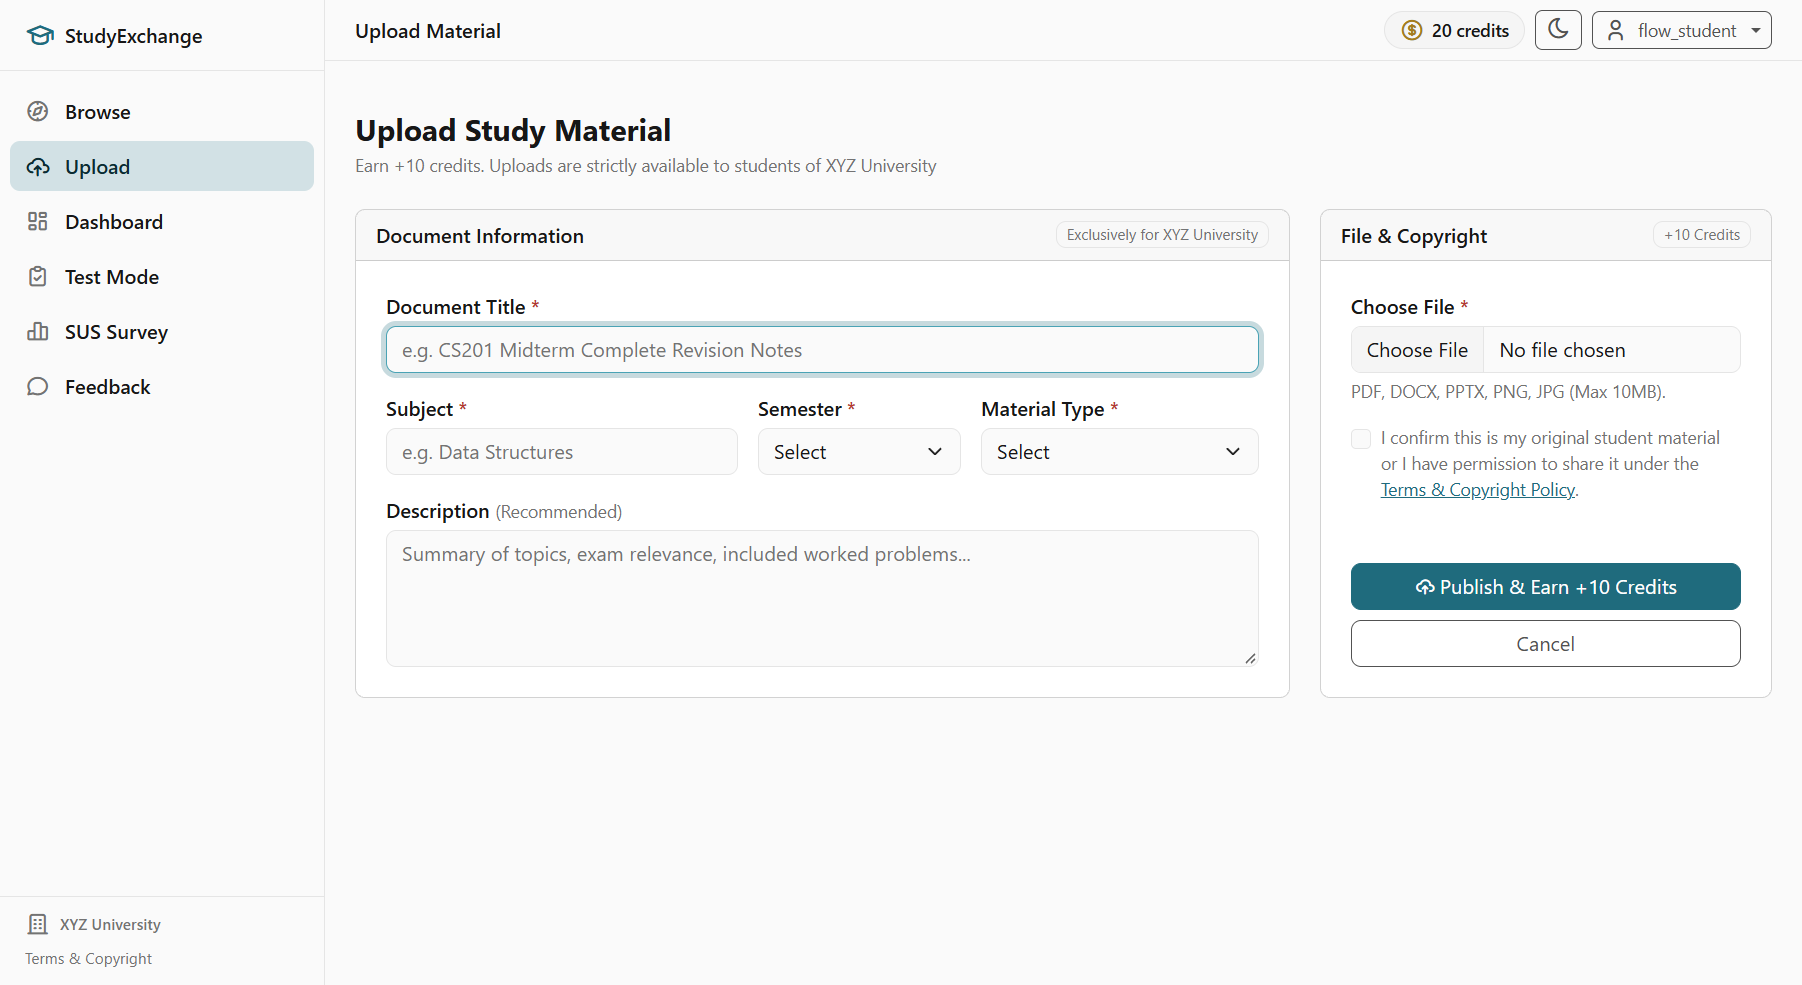
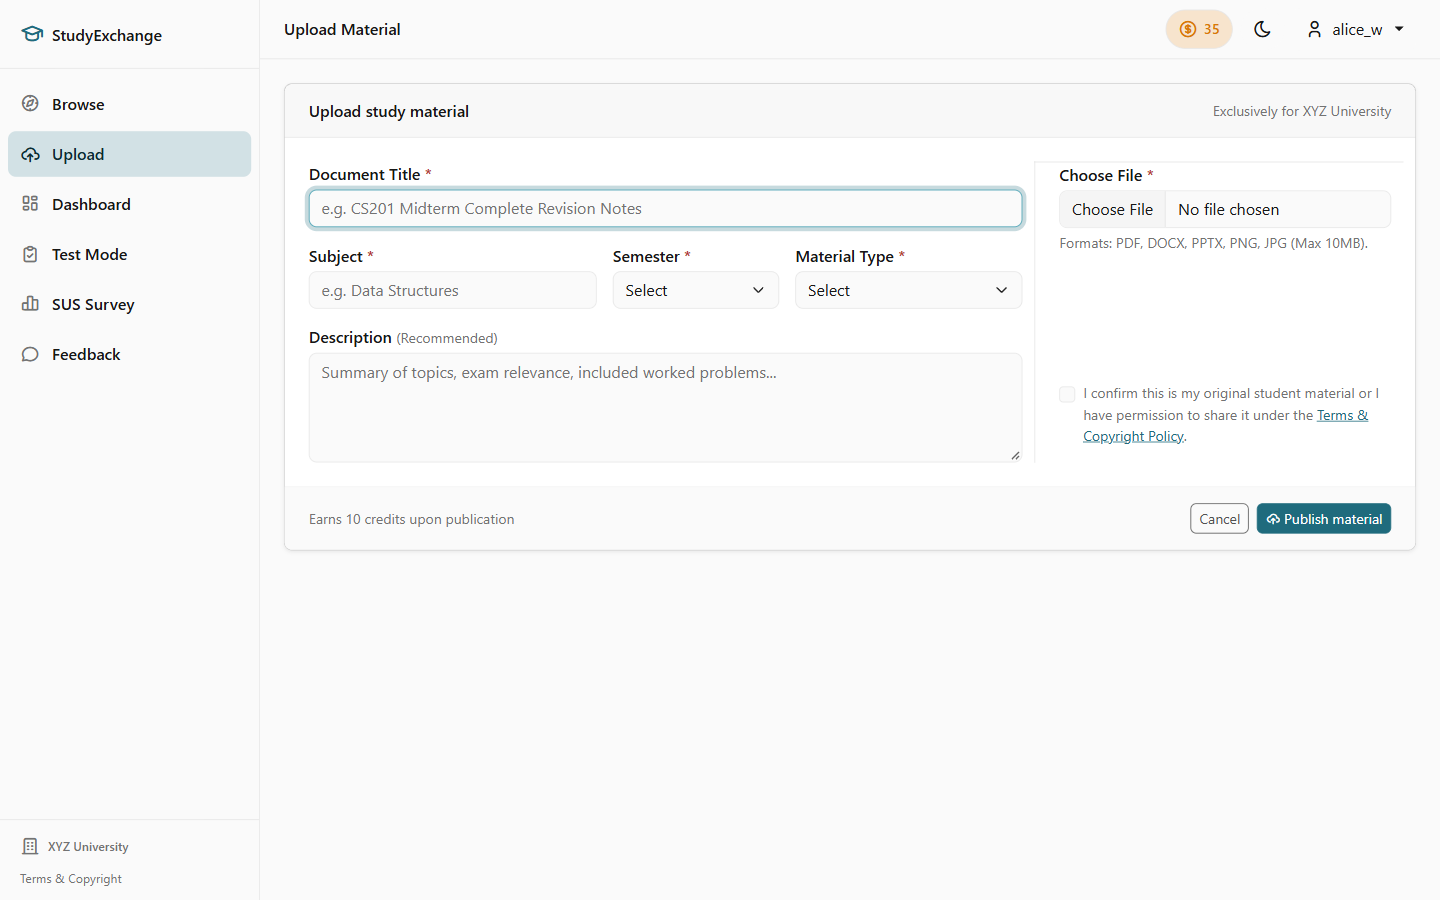
Phase 3: redesign upload page into single card two-column layout

diff --git a/templates/upload.html b/templates/upload.html
@@ -1,29 +1,25 @@
 {% extends "base.html" %}
-{% import "_components.html" as ui %}
 
 {% block title %}Upload Study Material - StudyExchange{% endblock %}
 {% block topbar_title %}Upload Material{% endblock %}
 
 {% block content %}
 <div class="container-fluid p-0">
-    {{ ui.page_header(
-    title="Upload Study Material",
-    subtitle="Earn +" + config.UPLOAD_REWARD|string + " credits. Uploads are strictly available to students of " + current_user.university_name
-    ) }}
-
     <form action="{{ url_for('upload.upload_file') }}" method="POST" enctype="multipart/form-data"
         class="needs-validation" novalidate>
         <input type="hidden" name="csrf_token" value="{{ csrf_token() }}">
 
-        <div class="row g-3 g-lg-4 align-items-stretch">
-            <!-- Left Card: Metadata (col-lg-8) -->
-            <div class="col-lg-8">
-                <div class="card h-100">
-                    <div class="card-header py-2 px-3 d-flex justify-content-between align-items-center">
-                        <span class="fw-semibold text-body">Document Information</span>
-                        <span class="badge border text-body-secondary fw-normal">Exclusively for {{ current_user.university_name }}</span>
-                    </div>
-                    <div class="card-body p-3 p-md-4">
+        <!-- Single Card: Two-Column Upload Layout -->
+        <div class="card shadow-sm">
+            <div class="card-header py-3 px-3 px-md-4 d-flex justify-content-between align-items-center flex-wrap gap-2">
+                <h1 class="h6 fw-semibold text-body mb-0">Upload study material</h1>
+                <span class="text-body-secondary small">Exclusively for {{ current_user.university_name }}</span>
+            </div>
+
+            <div class="card-body p-3 p-md-4">
+                <div class="row g-3 g-lg-4">
+                    <!-- Left Column: Metadata (col-lg-8) -->
+                    <div class="col-lg-8">
                         <!-- Title (Full Row) -->
                         <div class="mb-3">
                             <label for="title" class="form-label fw-medium text-body mb-1">
@@ -34,7 +30,7 @@
                             <div class="invalid-feedback">Please enter a clear document title.</div>
                         </div>
 
-                        <!-- Subject, Semester, Material Type on One Row (3 cols) -->
+                        <!-- Subject, Semester, Material Type on One Row -->
                         <div class="row g-2 g-md-3 mb-3">
                             <div class="col-md-5">
                                 <label for="subject" class="form-label fw-medium text-body mb-1">
@@ -82,17 +78,9 @@
                                 placeholder="Summary of topics, exam relevance, included worked problems..."></textarea>
                         </div>
                     </div>
-                </div>
-            </div>
 
-            <!-- Right Card: File Upload & Actions (col-lg-4) -->
-            <div class="col-lg-4">
-                <div class="card h-100">
-                    <div class="card-header py-2 px-3 d-flex justify-content-between align-items-center">
-                        <span class="fw-semibold text-body">File & Copyright</span>
-                        <span class="badge border text-body-secondary fw-normal">+{{ config.UPLOAD_REWARD }} Credits</span>
-                    </div>
-                    <div class="card-body p-3 p-md-4 d-flex flex-column">
+                    <!-- Right Column: File & Copyright with Divider (col-lg-4) -->
+                    <div class="col-lg-4 border-lg-start ps-lg-4 d-flex flex-column justify-content-between pt-3 pt-lg-0 border-top border-lg-top-0">
                         <!-- File Input -->
                         <div class="mb-3">
                             <label for="file" class="form-label fw-medium text-body mb-1">
@@ -101,13 +89,13 @@
                             <input class="form-control" type="file" id="file" name="file"
                                 accept=".pdf,.docx,.pptx,.png,.jpg" required>
                             <div class="form-text small text-body-secondary mt-1">
-                                PDF, DOCX, PPTX, PNG, JPG (Max {{ config.MAX_FILE_MB }}MB).
+                                Formats: PDF, DOCX, PPTX, PNG, JPG (Max {{ config.MAX_FILE_MB }}MB).
                             </div>
                             <div class="invalid-feedback">Please select an academic document.</div>
                         </div>
 
                         <!-- Copyright Checkbox -->
-                        <div class="mb-4 form-check">
+                        <div class="mb-3 form-check">
                             <input class="form-check-input" type="checkbox" id="confirm_copyright"
                                 name="confirm_copyright" required>
                             <label class="form-check-label small text-body-secondary" for="confirm_copyright">
@@ -115,17 +103,22 @@
                             </label>
                             <div class="invalid-feedback">You must confirm ownership before uploading.</div>
                         </div>
-
-                        <!-- Actions: Single Primary Button, Cancel as Outline Secondary -->
-                        <div class="mt-auto d-flex flex-column gap-2 pt-2">
-                            <button type="submit" class="btn btn-primary w-100">
-                                <i class="ti ti-cloud-upload me-1" aria-hidden="true"></i>Publish & Earn +{{ config.UPLOAD_REWARD }} Credits
-                            </button>
-                            <a href="{{ url_for('library.browse') }}" class="btn btn-outline-secondary w-100">
-                                Cancel
-                            </a>
-                        </div>
                     </div>
+                </div>
+            </div>
+
+            <!-- Card Footer: Actions and subtle credit note -->
+            <div class="card-footer py-3 px-3 px-md-4 bg-body border-top d-flex justify-content-between align-items-center flex-wrap gap-2">
+                <span class="text-body-secondary small">
+                    Earns {{ config.UPLOAD_REWARD }} credits upon publication
+                </span>
+                <div class="d-flex align-items-center gap-2">
+                    <a href="{{ url_for('library.browse') }}" class="btn btn-outline-secondary btn-sm">
+                        Cancel
+                    </a>
+                    <button type="submit" class="btn btn-primary btn-sm">
+                        <i class="ti ti-cloud-upload me-1" aria-hidden="true"></i>Publish material
+                    </button>
                 </div>
             </div>
         </div>

diff --git a/static/css/custom.css b/static/css/custom.css
@@ -21,6 +21,13 @@
     pointer-events: auto;
 }
 
+/* Responsive borders for multi-column cards */
+@media (min-width: 992px) {
+    .border-lg-start {
+        border-left: var(--bs-border-width) var(--bs-border-style) var(--bs-border-color) !important;
+    }
+}
+
 /* Sidebar and Desktop App Layout */
 .app-layout {
     display: flex;
